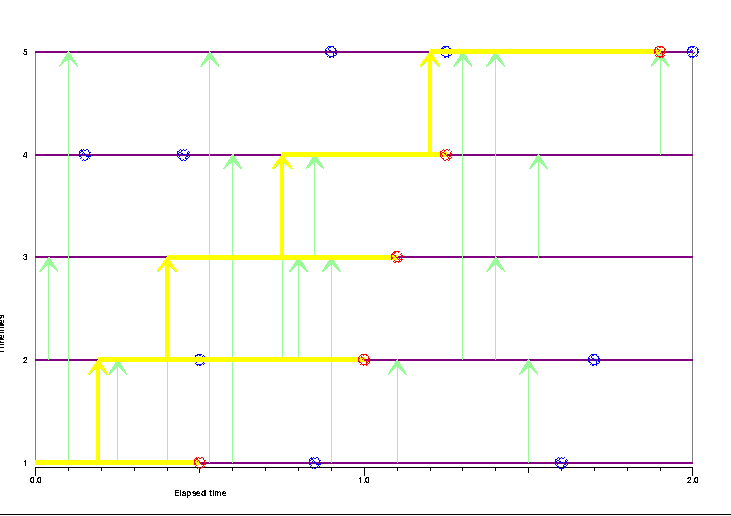
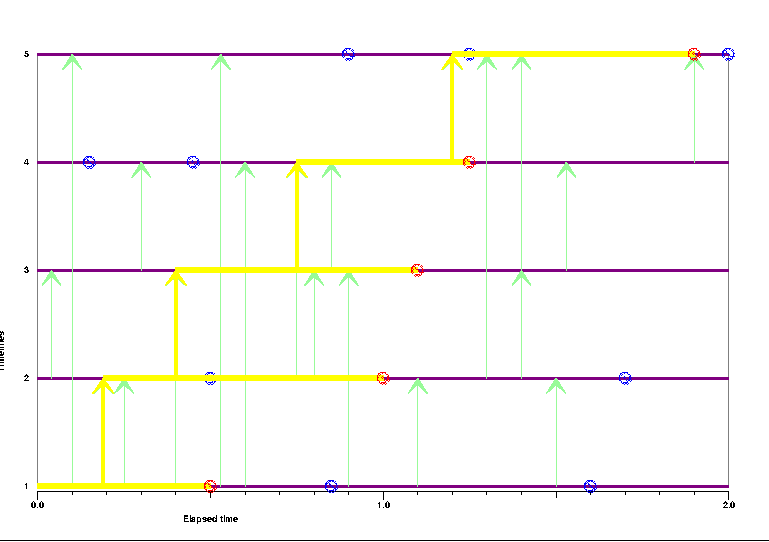
Re-worked Figure 2. Corrected caption for Figure 1.

diff --git a/PerfectEpidemics.tex b/PerfectEpidemics.tex
@@ -1115,11 +1115,11 @@ There are five time-lines.
 \\
 Yellow time-line segments denote infectious portions of time-lines.
 Yellow arrows denote 
-actual infections with marks \(j < i\),
+actual infections with marks \(j \leq i\),
 starting at time-line with mark \(j\) and ending at time-line with mark \(i+1\).
-Green vertical arrows denote potential but unrealized infections with marks \(j < i\),
+Green vertical arrows denote potential but unrealized infections with marks \(j \leq i\),
 starting at time-line with mark \(j\) and ending at time-line with mark \(i+1\).
-A potential infection with marks \(j < i\) 
+A potential infection with marks \(j \leq i\) 
 becomes realized only when 
 time-lines \(j\) and \(i\) are both infectious
 but time-line \(i+1\) is not yet infectious.
@@ -1140,6 +1140,7 @@ time-line \(i\) is infectious at the potential removal time (and not yet removed
 The constraints on realized removals lead to constraints on birth/death of infections/removals in algorithmic time.
 \label{fig:graphical}}
 \end{Figure}
+\NB[WSK3]{Figure \ref{fig:graphical} needs graphical key!}
 
 
 Note that, 
@@ -1230,8 +1231,10 @@ However it is always possible for \(\Removals^m_k=\emptyset\) for some or all \(
  Proposals of potential infections of ``no-fly'' portions of time-lines must be forbidden.
  Figure \ref{fig:no-fly} illustrates this construction.
  \begin{Figure}
-  \includegraphics[width=3in]{TimelinesSBC2.pdf}
-  \caption{``No-fly'' zone and boundary for this graphical representation.\label{fig:no-fly}}
+  \includegraphics[width=3in]{no-fly}
+  \caption{Illustration of ``No-fly'' zone (heavy black / grey lines starting from left of figure along time-lines) for this graphical representation. Note also the
+  ``late zone'', composed of portions of time-lines \emph{after} actual removals.
+  \label{fig:no-fly}}
  \end{Figure}
  
  The second region  is the \emph{``pre-infection'' zone}: this lies
